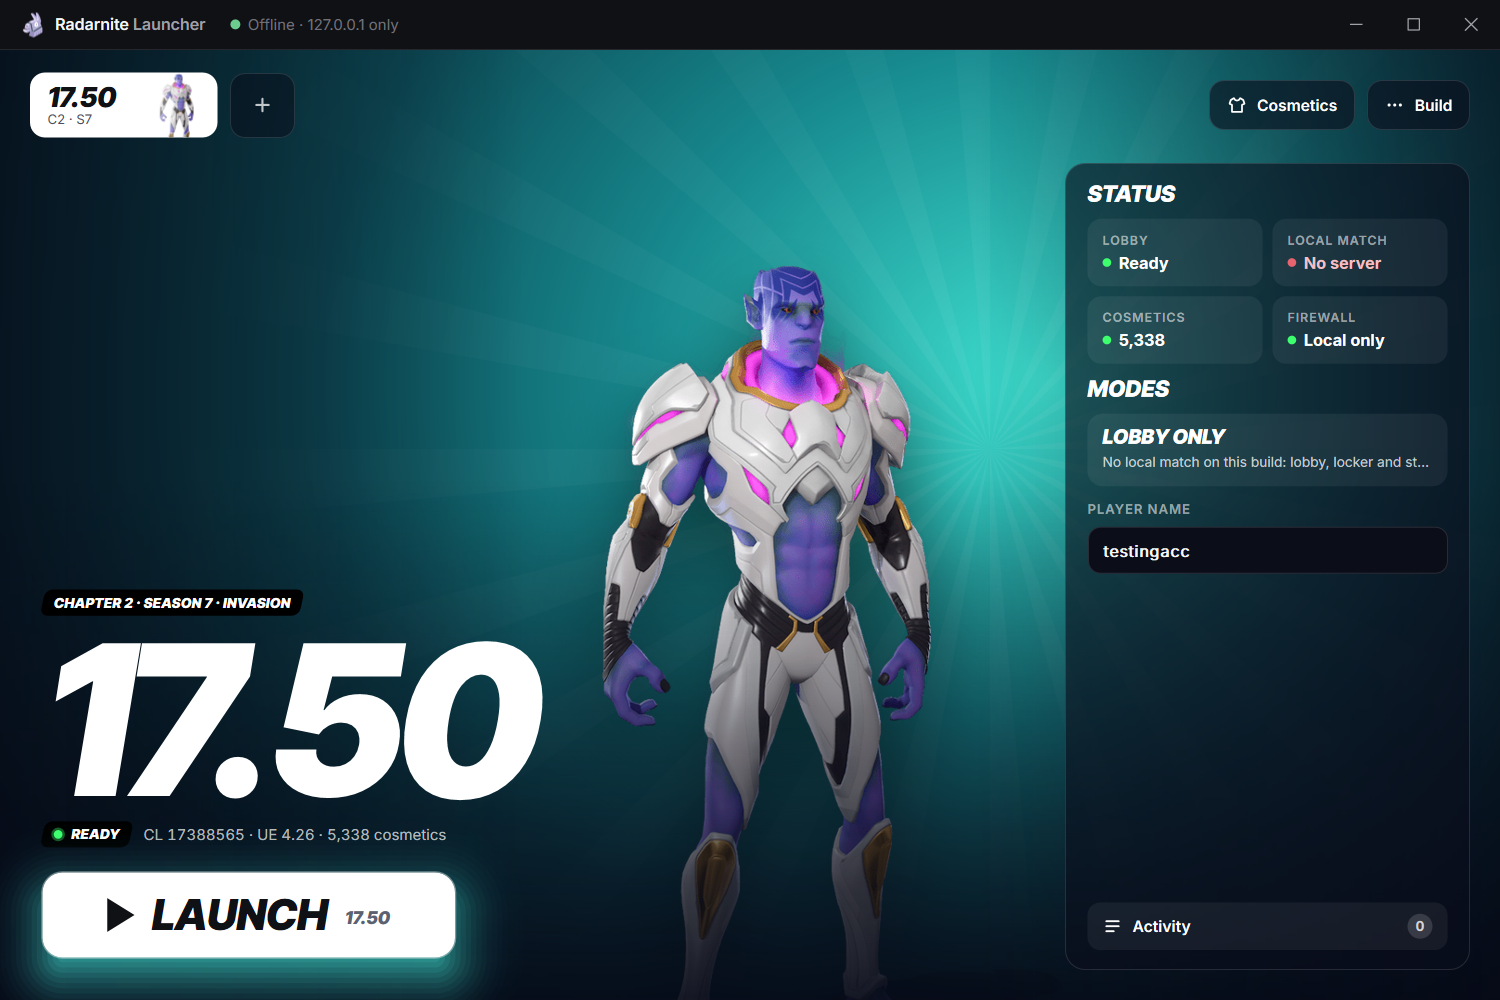
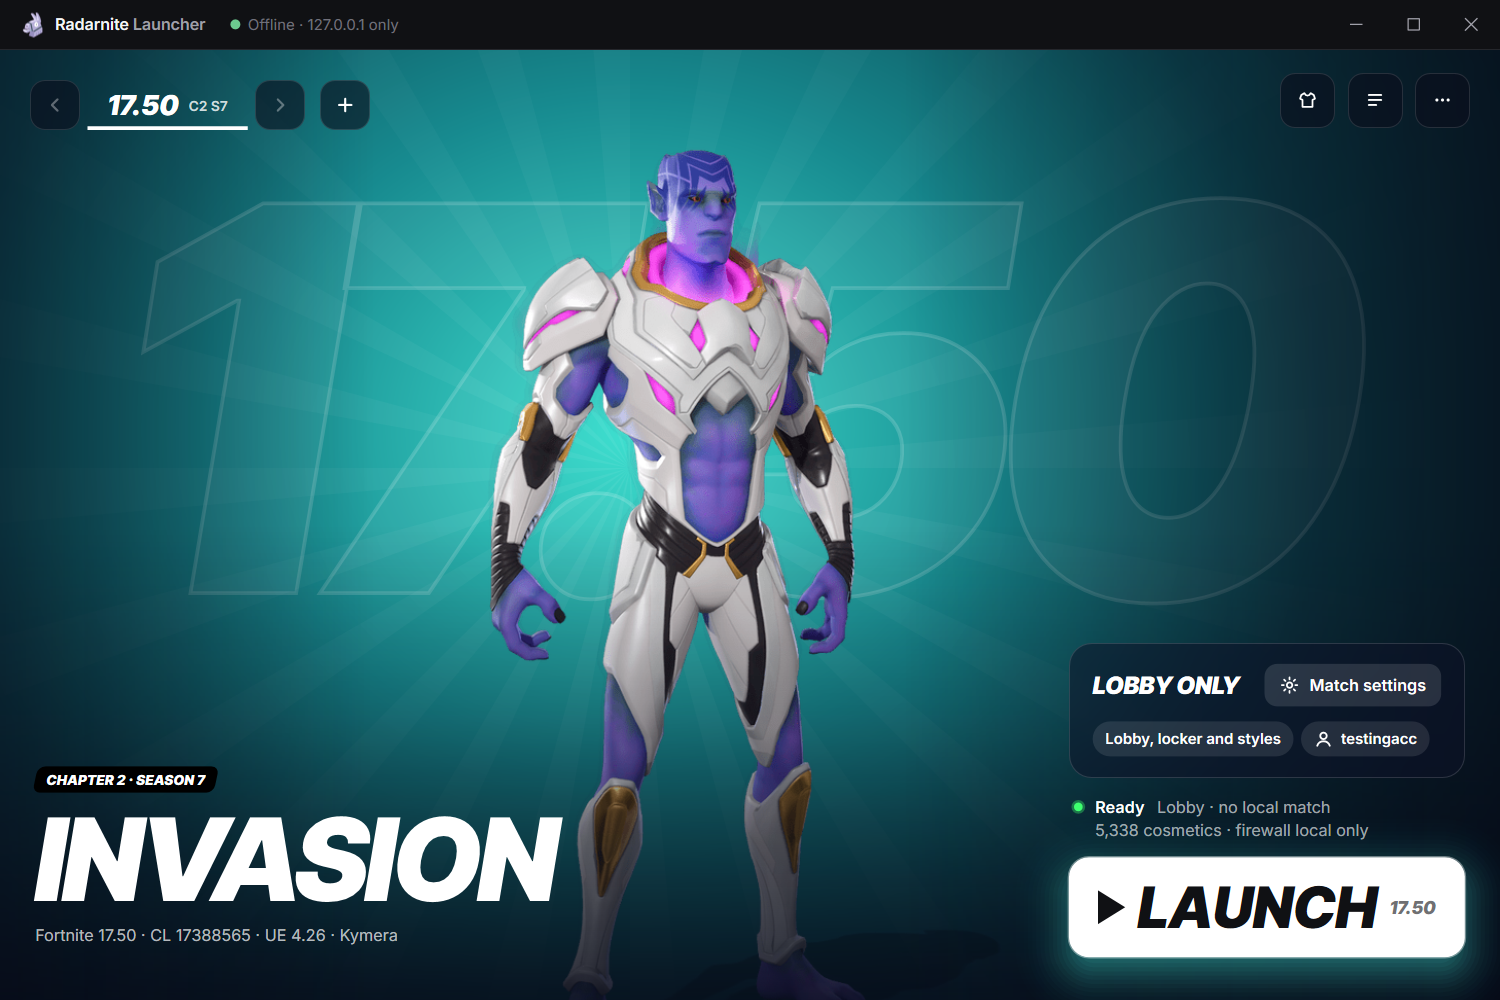
Poster: no skin shadow, label widths, sheet row labels

diff --git a/native/ui/ui.cpp b/native/ui/ui.cpp
@@ -1222,7 +1222,7 @@ void App::drawTop(float y, float W) {
         if (loaded_) {
             const Build& bd = st_.builds[i];
             std::wstring s = small(bd);
-            lw[i] = 16 + textW(verLabel(bd), vf) + 2 + (s.empty() ? 0 : 8 + textW(s, sf)) + 16;
+            lw[i] = 16 + textW(verLabel(bd), vf) + (s.empty() ? 0 : 8 + textW(s, sf)) + 16;
         }
         total += lw[i] + (i ? 6 : 0);
     }
@@ -1269,7 +1269,7 @@ void App::drawTop(float y, float W) {
         std::wstring v = verLabel(bd), s = small(bd);
         float vw = textW(v, vf);
         text(v, vf, r.left + 16, y, vw + 4, ah, C::white, 0, 0, a);
-        if (!s.empty()) text(s, sf, r.left + 16 + vw + 2 + 8, y + 1, lw[i] - 32 - vw - 10 + 2, ah, C::white, 0, 0, a * .8f);
+        if (!s.empty()) text(s, sf, r.left + 16 + vw + 8, y + 1, lw[i] - 32 - vw - 8 + 2, ah, C::white, 0, 0, a * .8f);
         if (on) fill(rc(r.left, r.bottom - 3, lw[i], 3), C::white);
         hit(id, r, F_FOCUS | F_HAND, 8);
     }
@@ -1578,8 +1578,8 @@ float App::summary(float x, float y, float w, bool withChips) {
     // .md: what the match is (modes are picked in the game: Practice or Battle Royale)
     std::wstring t = hasMatch ? L"LOCAL MATCH" : L"LOBBY ONLY";
     float tw30 = textW(t, Font{ Face::Display, 30, 900, true }), avail = brr.left - 12 - lx;
-    float ts = std::max(16.f, std::min(30.f, tw30 > 0 ? (avail - 4) / tw30 * 30 : 30.f));
-    text(t, Font{ Face::Display, ts, 900, true }, lx, ty, avail, 34, C::white);
+    float ts = std::max(14.f, std::min(30.f, tw30 > 0 ? (avail - 8) / tw30 * 30 : 30.f));
+    text(t, Font{ Face::Display, ts, 900, true }, lx, ty, avail + 4, 34, C::white);
     float chy = ty + 34 + 12;
     for (size_t i = 0; i < chips.size(); i++) {
         D2D1_RECT_F q = cr[i];
@@ -1678,10 +1678,10 @@ float App::sheetBody(float x, float y0, float w) {
     }
     y += 74 + 14;
 
-    auto row = [&](const wchar_t* label) { fill(rc(x, y, w, 1), C::white, .1f); text(label, rf, x, y, w * .55f, 44, C::white); };
+    auto row = [&](const wchar_t* label, float rightW) { fill(rc(x, y, w, 1), C::white, .1f); text(label, rf, x, y, w - rightW - 12, 44, C::white); };
     if (hasMatch) {
         // bots: the slider, then the number (an EDIT while it has the focus)
-        row(L"Bots");
+        row(L"Bots", std::min(280.f, w - textW(L"Bots", rf) - 24));
         int bots = botsDrag_ >= 0 ? botsDrag_ : c.bots;
         float gw = std::min(280.f, w - textW(L"Bots", rf) - 24), gx = x + w - gw;
         const float numW = 34;
@@ -1714,7 +1714,7 @@ float App::sheetBody(float x, float y0, float w) {
         };
         for (int i = 0; i < 4; i++) {
             int id = ID_TG0 + i;
-            row(tg[i].label);
+            row(tg[i].label, 30);
             float sx = x + w - 30, sy = y + (44 - 17) / 2;
             // background and the knob 180 ms var(--ease)
             float v = fx(K_SWITCH | id, tg[i].on ? 1.f : 0.f, rc(sx, sy, 30, 17), T2, Curve::Ui);
@@ -1735,7 +1735,7 @@ float App::sheetBody(float x, float y0, float w) {
     }
 
     // player name (a native EDIT on an opaque field)
-    row(L"Player name");
+    row(L"Player name", std::min(220.f, w - textW(L"Player name", rf) - 24));
     {
         EditBox& e = edits_[0];
         bool foc = hwnd_ && GetFocus() == e.hwnd;
@@ -1808,7 +1808,7 @@ void App::drawLaunch(D2D1_RECT_F pr, uint32_t glow) {
     float cx = pr.left + (bw - cw) / 2, cy = (pr.top + pr.bottom) / 2;
     icon(stopStyle ? Icon::X : Icon::Play, cx - g0, cy - iconS / 2, iconS, pc);
     if (text(pl, pf, cx + gw + gap, pr.top, ptw + 4, bh, pc)) issues.push_back(L"clipped play");
-    if (stw > 0) text(ver, sf, cx + gw + gap + ptw + gap, pr.top + 2 * k, stw + 2, bh, disabled ? 0x6B7080 : INK, 0, 0, disabled ? 1.f : .6f);
+    if (stw > 0) text(ver, sf, cx + gw + gap + ptw + gap, pr.top, stw + 2, bh, disabled ? 0x6B7080 : INK, 0, 0, disabled ? 1.f : .6f);
     base_ = saved;
     rt_->SetTransform(base_);
 }

diff --git a/native/ui/art.cpp b/native/ui/art.cpp
@@ -66,31 +66,6 @@ bool safeId(const std::wstring& s) {
     return true;
 }
 
-// Separable box blur of an 8-bit plane, radius r, in place (tmp = scratch of the same size).
-void boxBlur(std::vector<uint8_t>& p, std::vector<uint8_t>& tmp, int w, int h, int r) {
-    if (r < 1) return;
-    int d = 2 * r + 1;
-    for (int y = 0; y < h; y++) {   // horizontal: p -> tmp
-        const uint8_t* s = &p[(size_t)y * w]; uint8_t* o = &tmp[(size_t)y * w];
-        int sum = 0;
-        for (int x = -r; x <= r; x++) sum += (x >= 0 && x < w) ? s[x] : 0;
-        for (int x = 0; x < w; x++) {
-            o[x] = (uint8_t)(sum / d);
-            int a = x + r + 1, b = x - r;
-            sum += (a < w ? s[a] : 0) - (b >= 0 ? s[b] : 0);
-        }
-    }
-    for (int x = 0; x < w; x++) {   // vertical: tmp -> p
-        int sum = 0;
-        for (int y = -r; y <= r; y++) sum += (y >= 0 && y < h) ? tmp[(size_t)y * w + x] : 0;
-        for (int y = 0; y < h; y++) {
-            p[(size_t)y * w + x] = (uint8_t)(sum / d);
-            int a = y + r + 1, b = y - r;
-            sum += (a < h ? tmp[(size_t)a * w + x] : 0) - (b >= 0 ? tmp[(size_t)b * w + x] : 0);
-        }
-    }
-}
-
 // The file decoded at px rows (never above its own size) into 32bpp premultiplied BGRA.
 bool decode(const std::wstring& file, UINT px, ArtImage* out) {
     IWICImagingFactory* wic = nullptr;
@@ -128,34 +103,6 @@ void fadeLeft(ArtImage& im) {
             for (int k = 0; k < 4; k++) p[k] = (uint8_t)lroundf(p[k] * f);
         }
     }
-}
-
-// img.art filter: drop-shadow(0 30px 60px rgba(0,0,0,.55)) at an art height of 760px, baked under the skin once.
-// The image grows by the shadow's reach; pad* say where the skin's own box is inside it.
-void dropShadow(ArtImage& im, int* padL, int* padT, int* padR, int* padB) {
-    float k = im.h / 760.f;
-    float sigma = 30 * k;   // CSS blur radius 60px = 2 sigma
-    int oy = (int)lroundf(30 * k), reach = (int)ceilf(3 * sigma);
-    *padL = *padR = reach; *padT = std::max(0, reach - oy); *padB = reach + oy;
-    int W = (int)im.w + *padL + *padR, H = (int)im.h + *padT + *padB;
-    std::vector<uint8_t> a((size_t)W * H, 0), tmp((size_t)W * H);
-    for (UINT y = 0; y < im.h; y++)
-        for (UINT x = 0; x < im.w; x++) a[(size_t)(y + *padT + oy) * W + x + *padL] = im.px[((size_t)y * im.w + x) * 4 + 3];
-    int r = std::max(1, (int)lroundf(sigma));
-    for (int i = 0; i < 3; i++) boxBlur(a, tmp, W, H, r);   // three boxes ~ a Gaussian of sigma r
-    std::vector<uint8_t> o((size_t)W * H * 4);
-    for (int y = 0; y < H; y++)
-        for (int x = 0; x < W; x++) {
-            uint8_t* d = &o[((size_t)y * W + x) * 4];
-            int s = (int)lroundf(a[(size_t)y * W + x] * 0.55f);
-            int ix = x - *padL, iy = y - *padT;
-            if (ix >= 0 && iy >= 0 && ix < (int)im.w && iy < (int)im.h) {
-                const uint8_t* p = &im.px[((size_t)iy * im.w + ix) * 4];
-                d[0] = p[0]; d[1] = p[1]; d[2] = p[2];
-                d[3] = (uint8_t)(p[3] + (255 - p[3]) * s / 255);   // premultiplied black under the skin
-            } else { d[0] = d[1] = d[2] = 0; d[3] = (uint8_t)s; }
-        }
-    im.px.swap(o); im.w = W; im.h = H;
 }
 
 } // namespace
@@ -196,8 +143,7 @@ struct ArtLoader::Shared {
             if (!ok) DeleteFileW(file.c_str());   // a broken file is fetched again next time
         }
         if (!ok) { Guard g(g_failLock); g_failed.insert(r.skin); return false; }
-        if (r.thumb) fadeLeft(*out);
-        else dropShadow(*out, &out->padL, &out->padT, &out->padR, &out->padB);
+        if (r.thumb) fadeLeft(*out);   // the full art is drawn as it is (the poster's skin has no shadow)
         return true;
     }
 

diff --git a/native/ui/art.h b/native/ui/art.h
@@ -24,7 +24,7 @@ struct ArtImage {
     std::wstring skin;
     bool thumb = false;     // tab thumbnail (left part faded out), else the full art
     UINT w = 0, h = 0, srcH = 0;   // decoded size; srcH = the file's own height
-    int padL = 0, padT = 0, padR = 0, padB = 0;   // full art: the baked drop shadow around the skin's own box (px)
+    int padL = 0, padT = 0, padR = 0, padB = 0;   // margins around the skin's own box (px; 0 since the poster drops the baked shadow)
     std::vector<uint8_t> px;       // 32bpp premultiplied BGRA, w*4 per row
 };
 
